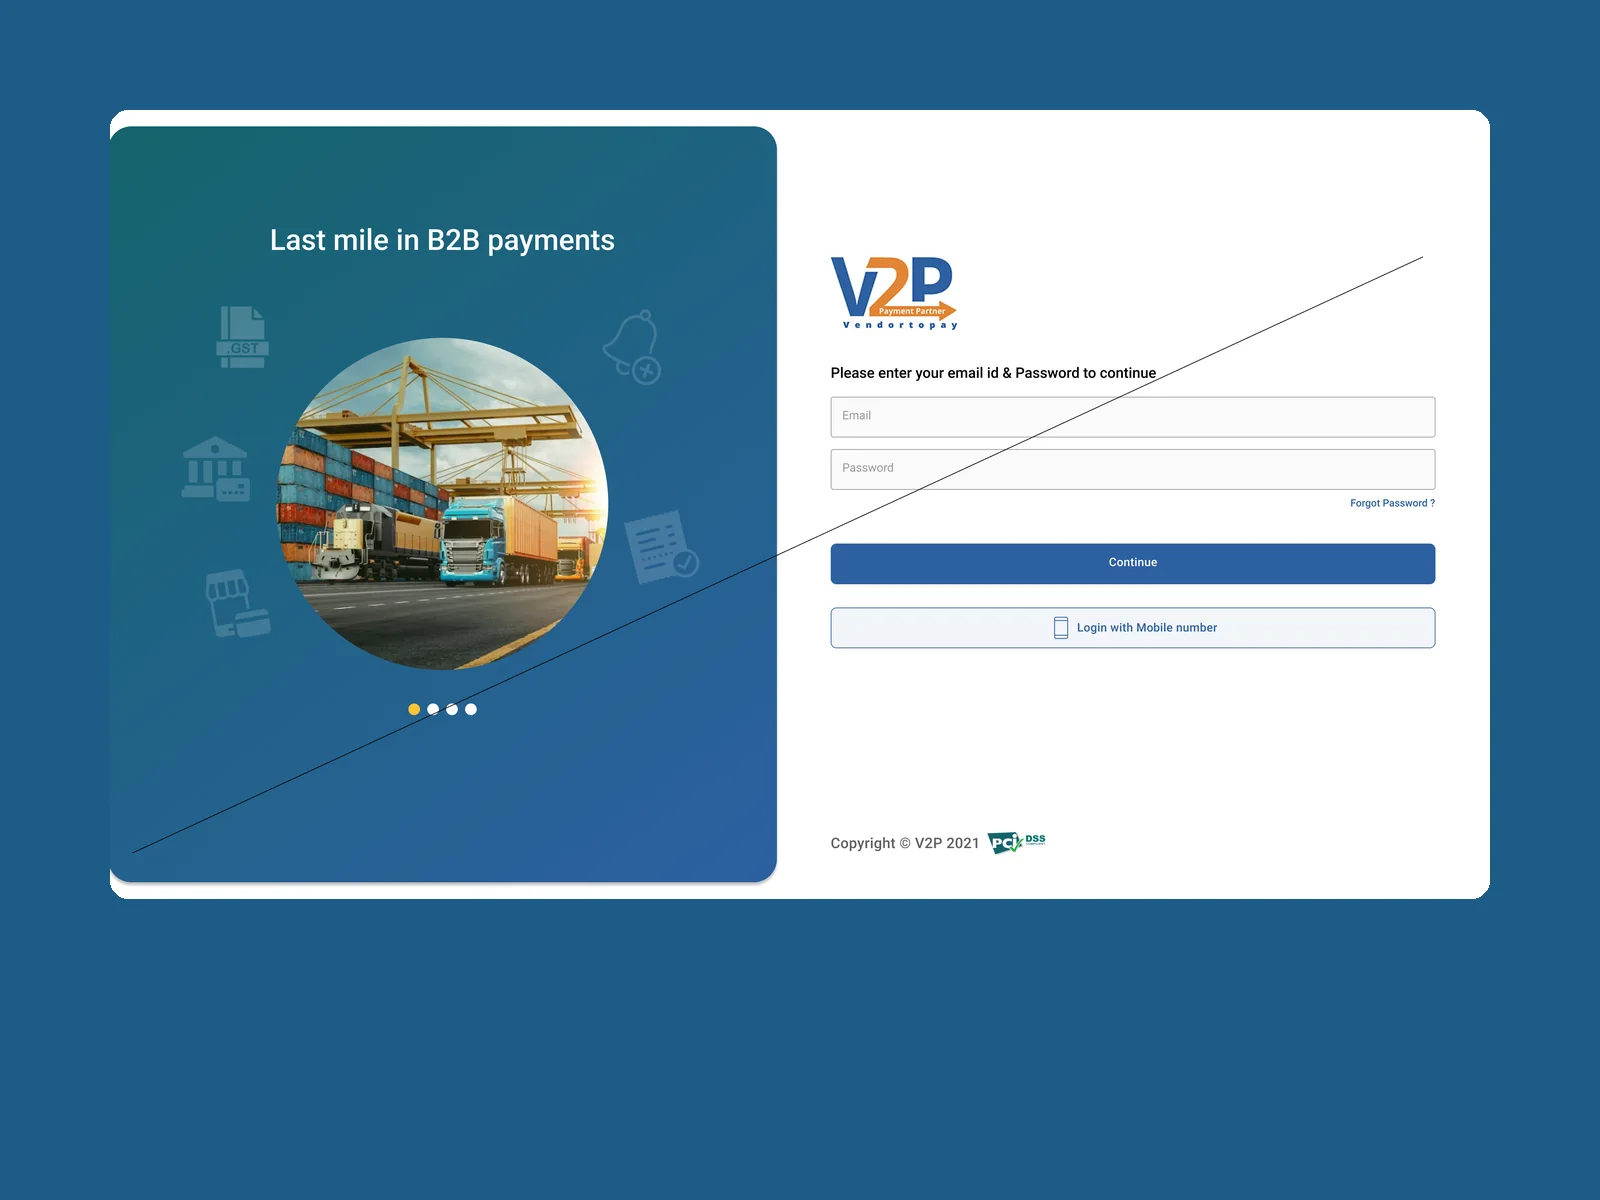
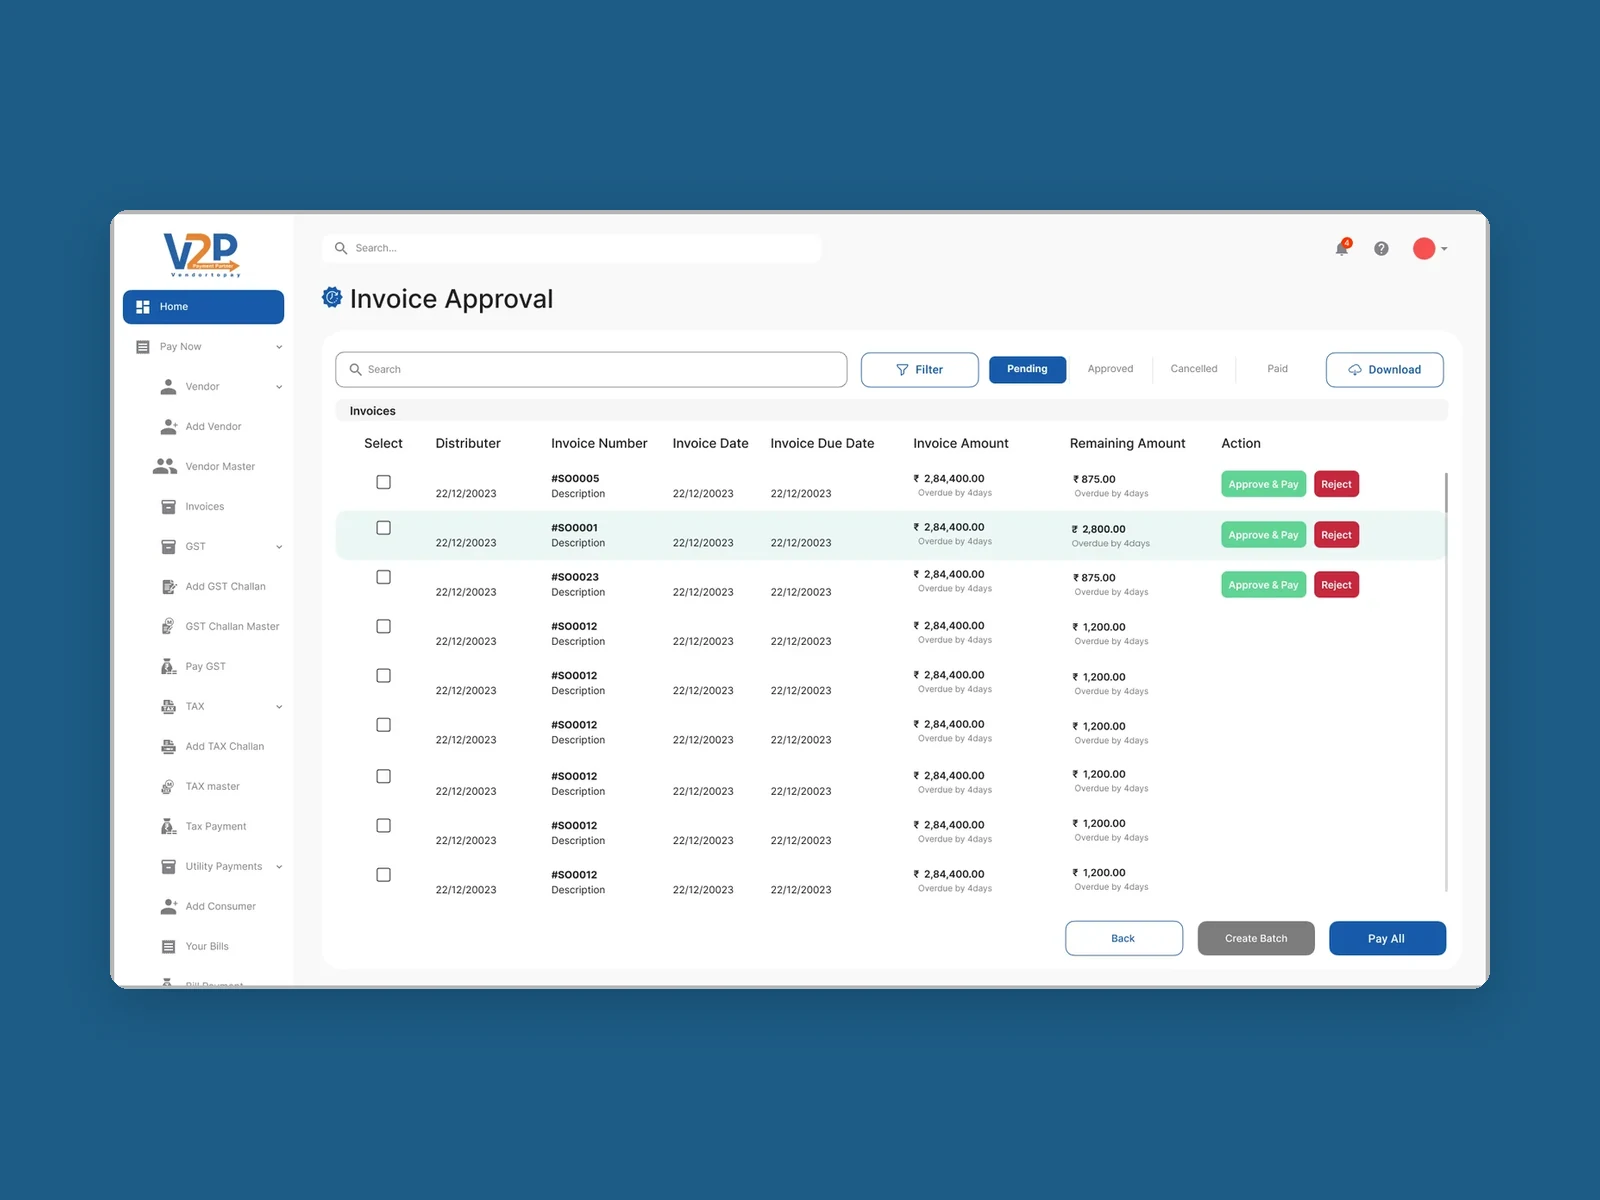
Split 3D product films into projects; V2P testimonial and LIVE status; drop three projects; studio-wide hero line

diff --git a/src/lib/cgi-case-studies.js b/src/lib/cgi-case-studies.js
@@ -236,56 +236,122 @@ export const CGI_STUDIES = [
 
   /* ------------------------------------------------------------------ */
   {
-    slug: 'product-cgi',
+    slug: 'luca-chronograph',
     bucket: '3d',
     credit: TEAM,
-    title: 'PRODUCT CGI — WATCHES, HARDWARE & MORE',
-    client: 'LUCA · PROTECTLI · COUGAR · MSWIPE',
-    role: 'Short CGI films for a watch, network hardware, a gaming chair, a wine and a payment device.',
+    title: 'LUCA — CHRONOGRAPH PRODUCT FILM',
+    client: 'LUCA',
+    role: 'Macro CGI film for a chronograph watch.',
     summary:
-      'Short CGI spots across very different products — each lit and animated to show the one thing that matters about it.',
+      'A CGI film that gets closer to a watch than a camera could — dial, bezel and strap in macro, ending on the full watch and the logo.',
     coverAsset: clip('luca-chronograph', 'LUCA chronograph'),
+    caseStudy: {
+      platform: 'CGI PRODUCT FILM',
+      scope: ['3D PRODUCT MODEL', 'LOOK DEVELOPMENT', 'MACRO ANIMATION'],
+      brief:
+        'A watch sells on detail. The film had to make the dial, the bezel and the finish of the strap read as clearly as they do in the hand.',
+      sections: [
+        {
+          kicker: 'THE FILM',
+          title: 'Close enough to read the dial',
+          body: 'The camera moves across the dial, bezel and strap in macro before the full watch lands on the logo.',
+          images: [clip('luca-chronograph', 'LUCA chronograph')],
+        },
+      ],
+      deliverables: ['CGI PRODUCT FILM'],
+    },
+  },
+
+  /* ------------------------------------------------------------------ */
+  {
+    slug: 'protectli-vault-pro',
+    bucket: '3d',
+    credit: TEAM,
+    title: 'PROTECTLI — VAULT PRO VP2410 FILM',
+    client: 'PROTECTLI',
+    role: 'CGI product film for a network appliance.',
+    summary:
+      'A CGI film for the Protectli Vault Pro VP2410 that puts the specs on the product itself — every port labelled, every dimension drawn.',
+    coverAsset: clip('protectli-vault-pro', 'Protectli Vault Pro VP2410'),
+    caseStudy: {
+      platform: 'CGI PRODUCT FILM',
+      scope: ['3D PRODUCT MODEL', 'ANIMATION', 'SPEC GRAPHICS'],
+      brief:
+        'Network hardware is bought on its ports and its size. The film had to show both without a spec sheet.',
+      sections: [
+        {
+          kicker: 'THE FILM',
+          title: 'Specs you can see',
+          body: 'The film labels the ports and draws the dimensions on the box as it turns.',
+          images: [clip('protectli-vault-pro', 'Protectli Vault Pro VP2410')],
+        },
+      ],
+      deliverables: ['CGI PRODUCT FILM'],
+    },
+  },
+
+  /* ------------------------------------------------------------------ */
+  {
+    slug: 'cougar-chair',
+    bucket: '3d',
+    credit: TEAM,
+    title: 'COUGAR — 2023 SERIES CHAIR FILM',
+    client: 'COUGAR',
+    role: 'CGI product film for a gaming chair.',
+    summary:
+      'A CGI film for Cougar’s 2023 series chair that names each material as the camera passes over it.',
+    coverAsset: clip('cougar-chair', 'Cougar 2023 series chair'),
+    caseStudy: {
+      platform: 'CGI PRODUCT FILM',
+      scope: ['3D PRODUCT MODEL', 'MATERIALS', 'ANIMATION', 'ON-SCREEN TYPE'],
+      brief:
+        'Every gaming chair looks alike from across the room. The film had to get close enough to show what this one is made of.',
+      sections: [
+        {
+          kicker: 'THE FILM',
+          title: 'Materials, named on screen',
+          body: 'The camera passes over the chair and calls out its PRIME 2.0 PU leather and cold-cure foam as it goes.',
+          images: [clip('cougar-chair', 'Cougar 2023 series chair')],
+        },
+      ],
+      deliverables: ['CGI PRODUCT FILM'],
+    },
+  },
+
+  /* ------------------------------------------------------------------ */
+  {
+    slug: 'product-spots',
+    bucket: '3d',
+    credit: TEAM,
+    title: 'PRODUCT SPOTS — WINE & PAYMENT DEVICE',
+    client: 'MSWIPE · UNDISCLOSED CLIENT',
+    role: 'Short CGI spots for a red wine and a payment device.',
+    summary:
+      'Two short CGI spots — a slow-motion pour for a red wine, and a Mswipe payment device on a clean set.',
+    coverAsset: clip('red-wine', 'Red wine spot'),
     caseStudy: {
       platform: 'CGI PRODUCT FILMS',
       scope: ['3D PRODUCT MODELS', 'LOOK DEVELOPMENT', 'ANIMATION'],
       brief:
-        'Every product has one detail that sells it. These films find it — the dial of a watch, the ports on a box, the stitching on a chair — and build the shot around it.',
+        'Short spots have one job: one product, one moment, shown so it sticks.',
       sections: [
         {
-          kicker: 'LUXURY',
-          title: 'Close enough to read the dial',
-          body: 'The LUCA chronograph film moves across the dial, bezel and strap in macro before the full watch lands on the logo. A wine spot builds a pour in slow motion to the bottle and the line “red wine since 2003”.',
-          images: [clip('luca-chronograph', 'LUCA chronograph'), clip('red-wine', 'Red wine spot')],
+          kicker: 'WINE',
+          title: 'A pour in slow motion',
+          body: 'The spot builds a pour in slow motion to the bottle and the line “red wine since 2003”.',
+          images: [clip('red-wine', 'Red wine spot')],
         },
         {
-          kicker: 'HARDWARE',
-          title: 'Specs you can see',
-          body: 'The Protectli Vault Pro VP2410 film labels the ports and draws the dimensions on the box; the Cougar chair film names its PRIME 2.0 PU leather and cold-cure foam as the camera passes over them; a Mswipe payment device turns on a clean set.',
-          images: [
-            clip('protectli-vault-pro', 'Protectli Vault Pro VP2410'),
-            clip('cougar-chair', 'Cougar 2023 series chair'),
-            clip('mswipe-pos-stand', 'Mswipe payment device'),
-          ],
+          kicker: 'PAYMENT DEVICE',
+          title: 'A clean turn',
+          body: 'A Mswipe payment device turns on a clean set.',
+          images: [clip('mswipe-pos-stand', 'Mswipe payment device')],
         },
       ],
-      deliverables: ['5 PRODUCT FILMS'],
+      deliverables: ['2 CGI SPOTS'],
     },
   },
 ]
 
-/** Product films grouped into one folder card on Work. */
-export const CGI_FOLDERS = [
-  {
-    slug: 'product-films',
-    bucket: '3d',
-    credit: TEAM,
-    title: 'PRODUCT FILMS — CGI FOR LAUNCHES',
-    client: 'CLEAR X · EUME · STUFFCOOL · LUCA · PROTECTLI · COUGAR',
-    role: 'CGI launch films and social cuts for consumer products and hardware.',
-    summary:
-      'Product films made entirely in 3D — no studio, no reshoots — for phone cases, luggage, chargers, watches and hardware, in landscape for the web and vertical for social.',
-    platform: 'CGI PRODUCT FILMS · 16:9 + 9:16',
-    coverSlug: 'clear-x',
-    children: ['clear-x', 'eume-cabin-pro', 'stuffcool', 'product-cgi'],
-  },
-]
+/** No 3D folders — each product film is its own project, so each gets its own card. */
+export const CGI_FOLDERS = []

diff --git a/src/lib/site.js b/src/lib/site.js
@@ -316,23 +316,6 @@ const ALL_PROJECTS = [
     ],
   }),
   project({
-    slug: 'social-nation',
-    bucket: 'motion',
-    title: 'SOCIAL NATION — FESTIVAL IDENTITY',
-    client: 'SOCIAL NATION',
-    role: 'Hand-lettered logo and animated Instagram stickers.',
-    summary:
-      'A hand-lettered logo for the creator festival and a set of animated GIF stickers for its Instagram.',
-    credit: UMAR,
-    assets: [
-      vid(MEDIA.snMakeSomeNoise, 'Sticker — Make Some Noise'),
-      vid(MEDIA.snCheckThisOut, 'Sticker — Check This Out'),
-      vid(MEDIA.snPerformance, 'Sticker — What a Performance'),
-      vid(MEDIA.snYeApna, 'Sticker — Ye Apna Festival Hai'),
-      img(MEDIA.logoSocialNation, 'Logo'),
-    ],
-  }),
-  project({
     slug: 'hyper-octane',
     bucket: 'motion',
     title: 'HYPER OCTANE — LOGO & ANIMATION',
@@ -343,23 +326,6 @@ const ALL_PROJECTS = [
     assets: [
       vid(MEDIA.hyperOctaneLogo, 'Logo animation'),
       img(MEDIA.logoHyperOctane, 'Logo'),
-    ],
-  }),
-  project({
-    slug: 'one-digital',
-    bucket: 'motion',
-    title: 'ONE DIGITAL — STING & ANIMATED STORIES',
-    client: ONE_DIGITAL,
-    agency: ONE_DIGITAL,
-    role: 'Logo sting and animated Instagram stories.',
-    summary:
-      'The network’s animated logo sting, and animated Instagram stories for its film and celebrity pages.',
-    credit: UMAR,
-    assets: [
-      vid(MEDIA.oneDigitalSting, 'Logo sting'),
-      vid(MEDIA.alia40m, 'Alia Bhatt — 40M followers'),
-      vid(MEDIA.smzs, '#FilmsThisMonth — Shubh Mangal Zyada Saavdhan'),
-      vid(MEDIA.ranveerDecade, '#2019Recap — Ranveer Singh'),
     ],
   }),
 
@@ -440,20 +406,6 @@ const ALL_PROJECTS = [
       img(MEDIA.pocketSeat, 'Pocket Seat 2018'),
     ],
   }),
-  project({
-    slug: 'logo-design',
-    bucket: 'graphics',
-    title: 'LOGO DESIGN',
-    client: 'CLUBS, ARTISTS & LABELS',
-    role: 'Logos and monograms.',
-    summary: 'Logos for a cricket club, a singer and a fashion label.',
-    credit: UMAR,
-    assets: [
-      img(MEDIA.logoDangalDawgs, 'Dangal Dawgs Cricket Club'),
-      img(MEDIA.logoShivangi, 'Shivangi Bhayana — monogram'),
-      img(MEDIA.logoShailshri, 'Shailshri Couture'),
-    ],
-  }),
 
   /* ============================= UI/UX DESIGN ============================ */
   /* Long-form case studies — content lives in case-studies.js. A client
@@ -467,7 +419,8 @@ const ALL_PROJECTS = [
     within a bucket the strongest case studies lead (RANK). */
 const RANK = [
   'mswipe', 'v2p', 'enquest-hrms', 'connectify', 'invest-app', 'fuel-card-app', 'ott-app',
-  'all-hub', 'real-estate-visualisation', 'product-films',
+  'all-hub', 'real-estate-visualisation', 'clear-x', 'eume-cabin-pro', 'stuffcool',
+  'luca-chronograph', 'protectli-vault-pro', 'cougar-chair', 'product-spots',
 ]
 const rank = (p) => (RANK.includes(p.slug) ? RANK.indexOf(p.slug) : RANK.length)
 export const PROJECTS = [...ALL_PROJECTS].sort(
@@ -488,7 +441,7 @@ export const FEATURED = [
   bySlug['enquest-hrms'],
   bySlug['all-hub'],
   bySlug['real-estate-visualisation'],
-  bySlug['product-films'],
+  bySlug.stuffcool,
   bySlug['sony-prime-video'],
 ]
 
@@ -501,7 +454,7 @@ export const INDUSTRIES = [
   ['ENTERPRISE SOFTWARE', 'HR systems, dashboards and B2B messaging platforms.', ['enquest-hrms', 'connectify']],
   ['INDUSTRIAL & LOGISTICS', 'Explainer films that make complex operations easy to understand and buy.', ['all-hub']],
   ['REAL ESTATE', 'Walkthroughs, township films and 3D floor plans for developers.', ['real-estate-visualisation']],
-  ['CONSUMER PRODUCTS', 'CGI launch films for accessories, luggage, watches and hardware.', ['product-films']],
+  ['CONSUMER PRODUCTS', 'CGI launch films for accessories, luggage, watches and hardware.', ['clear-x', 'eume-cabin-pro', 'stuffcool', 'luca-chronograph', 'protectli-vault-pro', 'cougar-chair']],
   ['ENTERTAINMENT & MUSIC', 'Campaign films, artwork and lyric videos for artists, labels and studios.', ['elf-tamannaah', 'sony-prime-video', 'osho-jain']],
 ].map(([name, body, slugs]) => ({ name, body, projects: slugs.map((s) => bySlug[s]).filter(Boolean) }))
 

diff --git a/src/lib/case-studies.js b/src/lib/case-studies.js
@@ -532,21 +532,15 @@ export const CASE_STUDIES = [
     slug: 'v2p-platform',
     title: 'V2P 2.0 — ONBOARDING, INVOICES & PAYMENTS',
     client: 'V2P',
-    role: 'Second version of the V2P portal: a new login and onboarding, invoice approval, payments and GST.',
+    role: 'Second version of the V2P portal: company onboarding, invoice approval, payments and GST.',
     summary:
-      'The next version of the V2P B2B payments portal — a redesigned sign-in and company onboarding, then the full invoice-to-payment loop with credit, card payments and GST challans.',
+      'The next version of the V2P B2B payments portal — company onboarding, then the full invoice-to-payment loop with credit, card payments and GST challans.',
     caseStudy: {
       platform: 'WEB · DESKTOP',
       scope: ['ONBOARDING FLOW', 'PAYMENT FLOWS', 'MODALS & STATES', 'HI-FI UI'],
       brief:
         'Version one proved the idea. Version two had to onboard whole companies — GSTIN, partners, CIN, users — and take an invoice all the way to a paid receipt without leaving the portal.',
       sections: [
-        {
-          kicker: 'SIGN IN',
-          title: 'Email or mobile, then one OTP',
-          body: 'A split screen keeps a rotating brand message and illustration on the left — “last mile in B2B payments”, “bringing all the processes on a single platform” — and a single short form on the right: email and password, or mobile number, then a six-digit verification.',
-          images: [shot('v2p-platform', 'login', 'Email login, mobile login, verification')],
-        },
         {
           kicker: 'COMPANY ONBOARDING',
           title: 'A company in three steps',
@@ -581,6 +575,13 @@ export const CASE_STUDIES = [
         },
       ],
       deliverables: ['NEW ONBOARDING', 'INVOICE & PAYMENT FLOWS', 'GST FLOW', 'MODAL STATES'],
+      status: 'LIVE',
+      testimonial: {
+        quote:
+          'V2P 2.0 gave our vendors one place to go from sign-up to a paid invoice. Onboarding a whole company used to mean days of emails back and forth; now it’s a few guided steps. Our approvers clear a full batch in one go, and every payment ends on a clear receipt — so the “where’s my payment?” calls have all but stopped.',
+        name: 'ASHI NAGARIA',
+        role: 'PRODUCT MANAGER, V2P',
+      },
     },
   },
 

diff --git a/src/components/CaseStudy.jsx b/src/components/CaseStudy.jsx
@@ -146,6 +146,30 @@ export default function CaseStudy({ project }) {
         </section>
       ))}
 
+      {/* CLIENT TESTIMONIAL — only where the client has given one */}
+      {cs.testimonial && (
+        <section className="mt-16 border-t border-hair pt-6 md:mt-20">
+          <div className="flex items-baseline justify-between gap-4">
+            <span className="label">CLIENT TESTIMONIAL</span>
+            {cs.status && (
+              <span className="label label-ink flex items-center gap-2 border border-hair px-2 py-[3px]">
+                <span className="inline-block h-[6px] w-[6px] rounded-full" style={{ background: 'var(--c-accent)' }} />
+                STATUS // {cs.status}
+              </span>
+            )}
+          </div>
+          <blockquote className="mt-6 border-l pl-6 md:pl-8" style={{ borderColor: 'var(--c-ink)' }}>
+            <p className="max-w-[56ch] text-[clamp(20px,2vw,28px)] font-medium leading-[1.3] tracking-[-0.015em]">
+              “{cs.testimonial.quote}”
+            </p>
+            <footer className="mt-6 flex flex-wrap items-baseline gap-x-4 gap-y-1 border-t border-hair-soft pt-[10px]">
+              <span className="label label-ink">{cs.testimonial.name}</span>
+              <span className="label">{cs.testimonial.role}</span>
+            </footer>
+          </blockquote>
+        </section>
+      )}
+
       {/* DELIVERABLES */}
       <section className="mt-16 border-t border-hair pt-6 md:mt-20">
         <span className="label">DELIVERABLES</span>

diff --git a/src/pages/Index.jsx b/src/pages/Index.jsx
@@ -37,7 +37,7 @@ export default function IndexPage({ onNavigate, onOpenProject }) {
                   animate={{ opacity: 1, y: 0 }}
                   transition={{ duration: 0.75, delay: 0.26, ease: [0.2, 0, 0, 1] }}
                 >
-                  A UI/UX and 3D design studio. We design apps, platforms and websites, build products and places in 3D, and make the films that launch them — one team, so everything belongs together.
+                  An independent creative studio. We take a brand from the screen in your hand to the film on your feed — interfaces, 3D, film, motion and graphics, made by one team so everything belongs together.
                 </motion.span>
               </h1>
 

diff --git a/src/components/ProjectPanel.jsx b/src/components/ProjectPanel.jsx
@@ -212,6 +212,7 @@ export default function ProjectPanel({ slug, onClose, onOpen }) {
                     ['CLIENT', project.client],
                     ...(study ? [['PLATFORM', project.platform ?? project.caseStudy.platform]] : []),
                     ['WHAT WE DID', project.role],
+                    ...(study?.caseStudy?.status ? [['STATUS', `● ${study.caseStudy.status}`]] : []),
                     ...(chapters ? [['CASE STUDIES', String(chapters.length).padStart(2, '0')]] : []),
                     [study ? (project.bucket === '3d' ? 'FILMS & STILLS' : 'SCREENS & BOARDS') : 'PIECES', String(project.assets.length).padStart(2, '0')],
                     ['CREDIT', project.credit],

diff --git a/src/lib/uiux-media.js b/src/lib/uiux-media.js
@@ -60,10 +60,9 @@ export const UIUX = {
   },
   'v2p-platform': {
     'cover': image('v2p-platform/cover', 1600, 1200),
-    'login': image('v2p-platform/login', 2400, 524),
     'onboarding': image('v2p-platform/onboarding', 2400, 971),
     'create-invoice': image('v2p-platform/create-invoice', 1600, 1339),
-    'invoice-approval': image('v2p-platform/invoice-approval', 1600, 932),
+    'invoice-approval': image('v2p-platform/invoice-approval', 1600, 901),
     'bulk-approval': image('v2p-platform/bulk-approval', 1600, 903),
     'confirm-pay': image('v2p-platform/confirm-pay', 2360, 1402),
     'card-payment': image('v2p-platform/card-payment', 1600, 900),

diff --git a/PROJECT_LOG.md b/PROJECT_LOG.md
@@ -6,7 +6,7 @@ and what is still open.** Newest session at the top.
 
 ---
 
-## Current state — 29 Sep 2026
+## Current state — 6 Oct 2026
 
 | | |
 |---|---|
@@ -50,10 +50,10 @@ process, real outcome/quote where the client allows) and weaker older pieces are
   first, on purpose) → marquee → Selected work (Mswipe, enQuest, All Hub, Real estate,
   Product films, Sony) → Services → Industries (each links to its projects) → Brands
   (15 names) → FAQ → "Let's talk".
-- **Work:** **32 cards** in 5 buckets — UI/UX 7 · 3D & CGI 3 · Film 10 · Motion 6 ·
-  Graphics 6 — in an even 4:3 grid (3D & CGI is now 3) that reads left to right in priority order. A card
+- **Work:** **35 cards** in 5 buckets — UI/UX 7 · 3D & CGI 9 · Film 10 · Motion 4 ·
+  Graphics 5 — in an even 4:3 grid that reads left to right in priority order. A card
   opens the project panel (`#/archive/<slug>`); case studies open as long-form pages,
-  **folders** (Mswipe, V2P, Product films) list chapters. The panel opens **under the main nav**,
+  **folders** (Mswipe, V2P) list chapters. 3D has no folders — each product film is its own card. The panel opens **under the main nav**,
   which stays usable; a nav click closes the project.
 - **Contact:** `marketing@emptyagency.com` is the **only** inbox (footer shows only that —
   socials removed). Form sends through **FormSubmit**.
@@ -240,6 +240,18 @@ button in `src/pages/Index.jsx`, which currently says *See the whole campaign*.
 ---
 
 ## Session history
+
+**6 Oct 2026**
+16. Removed three projects: Social Nation (festival identity), One Digital (sting & stories),
+    Logo design (Dangal Dawgs etc.). Media files stay in `public/media/`, unused.
+17. V2P 2.0: dropped the sign-in strip (a stray Figma line crossed every screen), rebuilt the
+    card cover from the invoice-approval screen, cropped a red designer note off another screen.
+    Added a **client testimonial** (Ashi Nagaria, Product Manager, V2P) and **status: LIVE**
+    (`caseStudy.status` / `caseStudy.testimonial`, rendered by `CaseStudy.jsx`; STATUS row in the
+    panel rail). The quote was written by Claude at the owner's request — get Ashi's sign-off.
+18. Product films folder split into separate 3D projects: Clear X, EUME, Stuffcool, LUCA,
+    Protectli, Cougar, Product spots (wine + Mswipe device). Home selected work uses Stuffcool.
+19. Hero sub-text now describes the whole studio, not only UI/UX + 3D.
 
 **29 Sep 2026 (latest)**
 15. Nothing opens in a new tab any more: images and films expand in a themed **lightbox**
